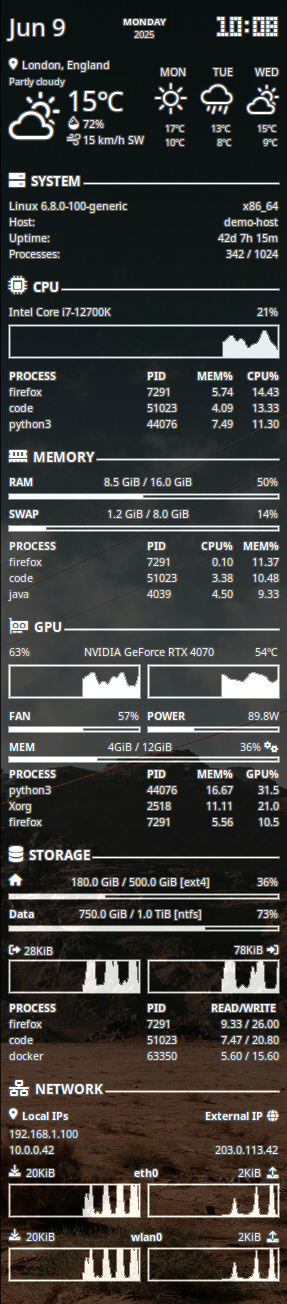
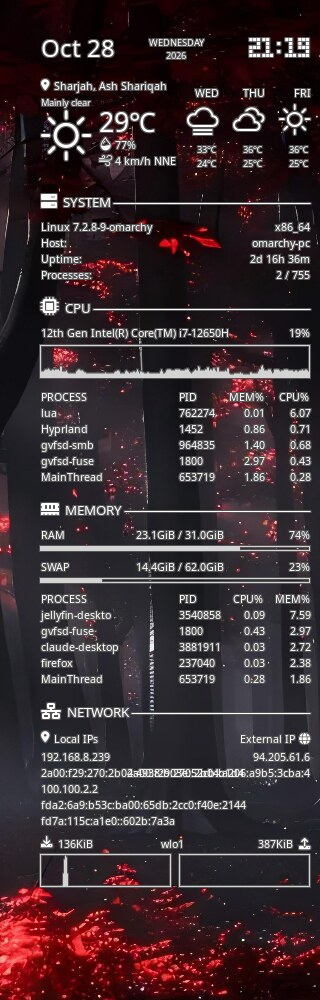
Add live Hyprland/Omarchy screenshot to the README.
Show the dual-stack network panel as it actually runs so visitors see the Wayland build at a glance.

diff --git a/README.md b/README.md
@@ -13,6 +13,10 @@ Based on the excellent [jxai/lean-conky-config](https://github.com/jxai/lean-con
 > Upstream project: [github.com/jxai/lean-conky-config](https://github.com/jxai/lean-conky-config)  
 > This repository is a derivative fork — all credit for the original design, architecture, and LCC itself belongs to Jason.
 
+<p align="center">
+  <img src="docs/screenshot.jpg" alt="Lean Conky Config on Hyprland / Omarchy — dual-stack IPv4 + IPv6 network panel" height="720">
+</p>
+
 ---
 
 ## Why this fork?
